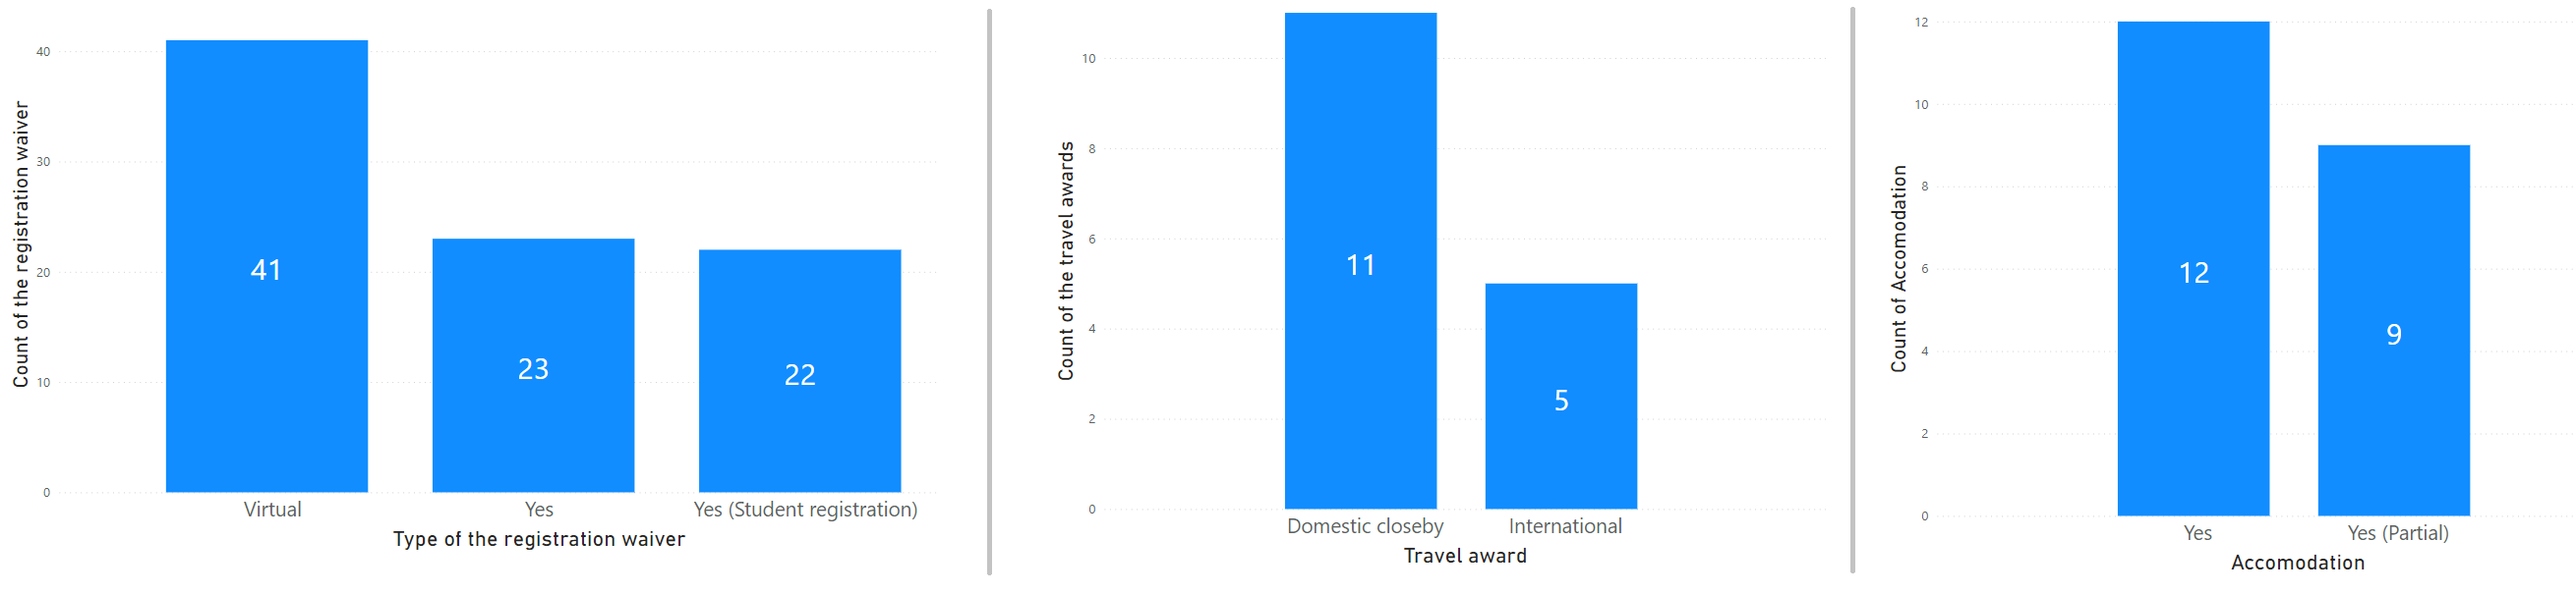
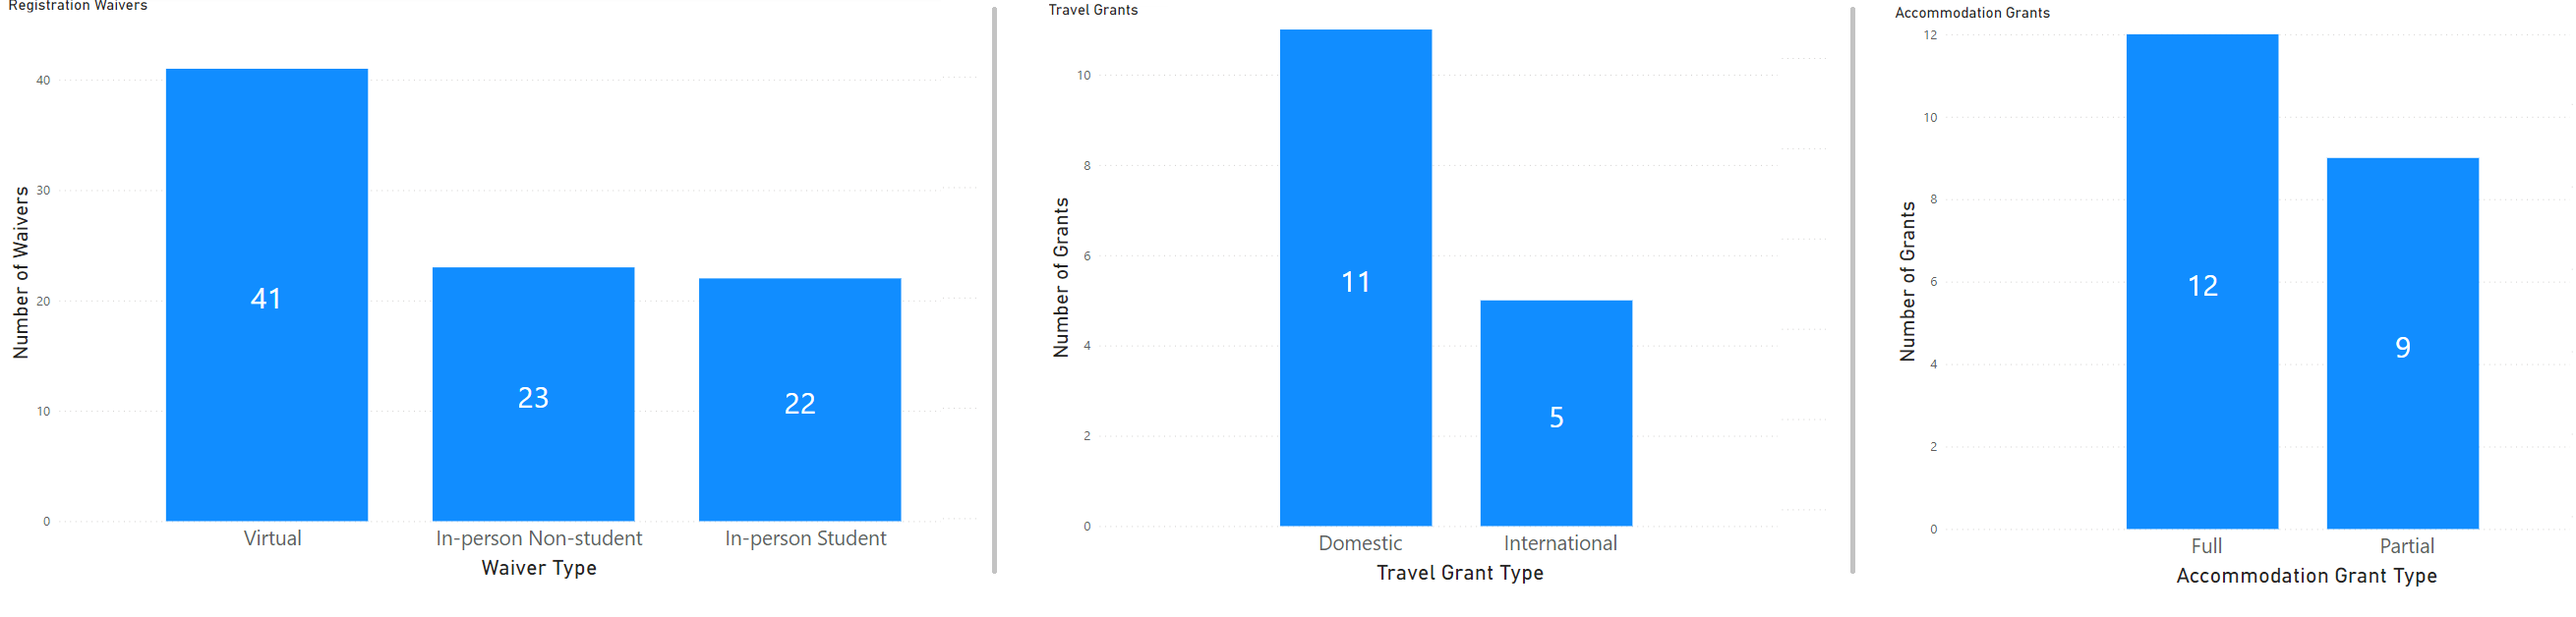
eaamo22 at a glance update

diff --git a/content/EAAMO_22_at_a_glance/_index.md b/content/EAAMO_22_at_a_glance/_index.md
@@ -18,7 +18,12 @@ header:
 
 ## General Overview
 
-The second Association for Computing Machinery (ACM) conference on Equity and Access in Algorithms, Mechanisms, and Optimization (EAAMO ‘22) took place from October 6, 2022 to October 9, 2022 at George Mason University (GMU) in Arlington, VA, USA. This was the first in-person iteration of the EAAMO conference series after the virtual launch at EAAMO ‘21. This year’s conference highlighted work where techniques from algorithms, optimization, and mechanism design, along with insights from the social sciences and humanistic studies tackle two goals: 1) improving equity and access to opportunity for historically disadvantaged and underserved communities and 2) helping identify ways in which algorithmic systems can create and perpetuate inequality. The conference is legally and financially sponsored by ACM Special Interest Groups on Artificial Intelligence (ACM SIGAI) and on Economics and Computation (ACM SIGecom), and has received financial support from the Alfred P. Sloan Foundation, MacArthur Foundation, and the Public Interest Technology University Network (PIT-UN). 
+The second Association for Computing Machinery (ACM) conference on Equity and Access in Algorithms, Mechanisms, and Optimization (EAAMO ‘22) took place from October 6, 2022 to October 9, 2022 at George Mason University (GMU) in Arlington, VA, USA. This was the first in-person iteration of the EAAMO conference series after the virtual launch at EAAMO ‘21. This year’s conference highlighted work where techniques from algorithms, optimization, and mechanism design, along with insights from the social sciences and humanistic studies tackle two goals:
+
+1. Improving equity and access to opportunity for historically disadvantaged and underserved communities and
+2. Helping identify ways in which algorithmic systems can create and perpetuate inequality.
+
+The conference is legally and financially sponsored by ACM Special Interest Groups on Artificial Intelligence ([ACM SIGAI](https://sigai.acm.org/main/)) and on Economics and Computation ([ACM SIGecom](https://www.sigecom.org/)), and has received financial support from the [Alfred P. Sloan Foundation](https://sloan.org/), [MacArthur Foundation](https://www.macfound.org/), and the Public Interest Technology University Network ([PIT-UN](https://pitcases.org/)).
 
 - - -
 
@@ -26,15 +31,17 @@ The second Association for Computing Machinery (ACM) conference on Equity and Ac
 
 ### Research collaboration with Indigenous communities from Mexico 
 
-One of the most ambitious diversity programs at EAAMO ‘22 was the sponsorship of a cohort of 7 female indigenous students from the Huasteca region of San Luis Potosi, Mexico, who presented work undertaken over the summer with researchers from the MD4SG community, during a dedicated poster session at the doctoral consortium. The students participating were all indigenous women from rural communities in San Luis Potosi. More specifically, 4 of the students belonged to Tének-speaking communities and the remaining 3 belonged to Náhuatl-speaking communities. For many of the students, this was their first time traveling abroad. Moreover, volunteers from the MD4SG research initiative offered live translation between English and Spanish for in-person participants of the conference which included these students.
+One of the most ambitious diversity programs at EAAMO ‘22 was the sponsorship of a cohort of 7 female indigenous students from the Huasteca region of San Luis Potosi, Mexico, who presented work undertaken over the summer with researchers from the Mechanism Design for Social Good ([MD4SG](https://www.md4sg.com/)) community, during a dedicated poster session at the doctoral consortium. The students participating were all indigenous women from rural communities in San Luis Potosi. More specifically, 4 of the students belonged to Tének-speaking communities and the remaining 3 belonged to Náhuatl-speaking communities. For many of the students, this was their first time traveling abroad. Moreover, volunteers from the MD4SG research initiative offered live translation between English and Spanish for in-person participants of the conference which included these students.
 
-This program came about as the result of ongoing collaboration between EAAMO,  MD4SG, the United States Embassy in Mexico, the Science and Technology Council of San Luis Potosí (COPOCYT), a government organization from the state of San Luis Potosí, and the [National Association of Universities and Higher Education Institutions](http://www.anuies.mx/). The main program was  a virtual Summer Research Experience for indigenous women students who are interested in STEM and aim towards bringing about positive social impact in their local communities. The selected students presented their work under the themes of: preservation of indigenous language/culture, affordable housing, and equitable access to healthcare for indigenous communities. A list of the poster presentations they will be presenting can be found in the [website](https://eaamo.org/doctoral_consortium/).
+This program came about as the result of ongoing collaboration between EAAMO, MD4SG, the United States Embassy in Mexico, the Science and Technology Council of San Luis Potosí ([COPOCYT](https://slp.gob.mx/copocyt/Paginas/Inicio.aspx)), a government organization from the state of San Luis Potosí, Mexico, and the [National Association of Universities and Higher Education Institutions](http://www.anuies.mx/). The main program was a virtual Summer Research Experience for indigenous women students who are interested in STEM and aim towards bringing about positive social impact in their local communities. The selected students presented their work under the themes of: preservation of indigenous language/culture, affordable housing, and equitable access to healthcare for indigenous communities. 
+
+We invite you to learn more about our students, their communities and their projects [here](https://eaamo.org/copocyt/). 
 
 - - -
 
 ### Diversity in Participation
 
-We are particularly encouraged by the fact that our participation spanned 25 countries (Figure 1), with close to 20% participants coming from the Global South. The conference benefited from gender diversity as well, with approximately 55% of participants identifying as female (Figure 2). We believe these are excellent indicators of our success in  creating a conference that welcomes and centers members of marginalized and underrepresented communities.
+We are particularly encouraged by the fact that our participation spanned 25 countries (Figure 1), with close to 20% participants coming from the Global South. More specifically, The conference had more than 140 in-person participants from over 13 countries as well as over 70 virtual participants from over 23 countries. The conference benefited from gender diversity as well, with approximately 55% of participants identifying as female (Figure 2). We believe these are excellent indicators of our success in creating a conference that welcomes and centers members of marginalized and underrepresented communities.
 
 <figure>
   <img src='../images/registrations.png' alt='The countries of registrants are highlighted in blue.'>
@@ -42,11 +49,12 @@ We are particularly encouraged by the fact that our participation spanned 25 cou
 </figure>
 
 <figure>
-  <img src='../images/registration_info.png' alt='The Registration info.'>
-  <figcaption>Fig. 2 - Registration info</figcaption>
+  <img src='../images/registration_info.png' alt='Demographic breakdown of registrations.'>
+  <figcaption>Fig. 2 - Demographic breakdown of registrations</figcaption>
 </figure>
 
-Financial assistance was given for fourty-five in-person and forty-one virtual registrations, sixteen travel grants, and twenty-three accommodation grants (Figure 3). The Registration and Grants Cochairs tried their best to ensure diversity, equality, and inclusion while giving grants, so students, researchers, and practitioners from a variety of countries and fields could have an opportunity to participate at EAAMO ’22.
+Financial assistance was provided in the form of: registration waivers (for both in-person and virtual attendance), travel grants and accommodation grants. We provided waivers for forty-five in person and forty-one virtual registrations, as well as sixteen travel grants and twenty-three accommodation grants (Figure 3). The Registration and Grants Cochairs tried their best to ensure diversity, equality, and inclusion while giving grants, so students, researchers, and practitioners from a variety of countries and fields could have an opportunity to participate at EAAMO ’22.
+
 
 <!--<img src='../images/registration_waivers.png' width="300" alt='The number of registration waivers.'>
 
@@ -55,23 +63,23 @@ Financial assistance was given for fourty-five in-person and forty-one virtual r
 <img src='../images/accommodation_grants.png' width="300" alt='The number of accommodation grants.'>-->
 
 <figure>
-  <img src='../images/grants.png' alt='The number of grants.'>
-  <figcaption>Fig. 3 - The total number of grants per type</figcaption>
+  <img src='../images/grants.png' alt='Breakdown of financial assistance provided at EAAMO ’22.'>
+  <figcaption>Fig. 3 - Breakdown of financial assistance provided at EAAMO ’22.</figcaption>
 </figure>
 
 - - -
 
 ### Paper Submissions
 
-We received over 150 submissions for publication from over 20 countries around the world and across fields, spanning authorship from researchers, policymakers, as well as other domain experts and professionals. All contributors were united by their interest in improving equity and developing solutions for problems in a variety of application domains such as education, labor, environment, healthcare, algorithmic fairness, and digital platforms. Due to its interdisciplinary nature, the conference attracted a very diverse and large group of members with backgrounds in computer science, AI, operations research, economics, public policy, and humanities, while a great number of papers combined methodologies and insights from multiple fields. Each contributed paper was rigorously peer-reviewed by members of a program committee who were chosen from fields related to the topics of the conference. Out of all submissions, 94 submissions were accepted as oral or poster presentations. 
+We received over 150 submissions for publication from over 20 countries around the world and across fields, spanning authorship from researchers, policymakers, as well as other domain experts and professionals. All contributors were united by their interest in improving equity and developing solutions for problems in a variety of application domains such as education, labor, environment, healthcare, algorithmic fairness, and digital platforms. Due to its interdisciplinary nature, the conference attracted a very diverse and large group of members with backgrounds in computer science, A.I., operations research, economics, public policy, and humanities, while a great number of papers combined methodologies and insights from multiple fields. Each contributed paper was rigorously peer-reviewed by members of a program committee who were chosen from fields related to the topics of the conference. Out of all submissions, 94 submissions were accepted as oral or poster presentations.
 
-From the accepted papers, 19 were accepted in the second volume of the archival track of the conference: [the 2022 Proceedings of  EAAMO ‘22: Equity and Access in Algorithms, Mechanisms, and Optimization published by the ACM](https://dl.acm.org/doi/proceedings/10.1145/3551624). We also gave awards in the following categories: [Best Paper, Best Paper with a Student Presenter, and New Horizons](https://eaamo.org/awards/).
+From the accepted papers, 19 were accepted in the second volume of the archival track of the conference: [the 2022 Proceedings of  EAAMO ‘22: Equity and Access in Algorithms, Mechanisms, and Optimization published by the ACM](https://dl.acm.org/doi/proceedings/10.1145/3551624). We also gave awards in the following categories: [Best Paper, Best Paper with a Student Presenter, and New Horizons](https://eaamo2022.eaamo.org/awards/).
 
 - - -
 
 ### Conference Activities
 
-Each of the four days of the conference featured either [keynote talks or panel discussions](https://eaamo.org/speakers/) alongside thematically related sessions. Our keynote talks addressed key themes for the conference: digital and data markets, algorithms for societal allocation, sustainability, and past and present inequality. The thematically-related multi-disciplinary [sessions](https://eaamo.org/schedule/) for contributed talks represented the wide range of topics and application domains of interest to the conference goals, the combination of novel and diverse methodologies as well as the strong connections of many papers to policy design: Participation, Allocation under constraints, Government Regulation & Audits, Quantitative social science and conceptual frameworks, Service Delivery & Incentives, Algorithms for Allocation, Computational Social Choice, Algorithmic Fairness and Documentation, Policy & Practice, Human Factors, and Allocation in Social Services. 
+Each of the four days of the conference featured either [keynote talks or panel discussions](https://eaamo2022.eaamo.org/speakers/) alongside thematically related sessions. Our keynote talks addressed key themes for the conference: digital and data markets, algorithms for societal allocation, sustainability, and past and present inequality. The thematically-related multi-disciplinary [sessions](https://eaamo2022.eaamo.org/schedule/) for contributed talks represented the wide range of topics and application domains of interest to the conference goals, the combination of novel and diverse methodologies as well as the strong connections of many papers to policy design: Participation, Allocation under constraints, Government Regulation & Audits, Quantitative social science and conceptual frameworks, Service Delivery & Incentives, Algorithms for Allocation, Computational Social Choice, Algorithmic Fairness and Documentation, Policy & Practice, Human Factors, and Allocation in Social Services. 
 
 We believe we succeeded in creating an inclusive in-person conference on how computational tools and algorithms, together with economic approaches and mechanism design, can address equity, access, and other urgent societal challenges.
 
@@ -79,4 +87,4 @@ We believe we succeeded in creating an inclusive in-person conference on how com
 
 ### Sponsors
 
-We are grateful to our sponsors, the ACM SIGecom and SIGAI, for sponsoring the conference for the second year in a row. We are particularly grateful to our funders, the Sloan Foundation, MacArthur Foundation, and the Public Interest Technology University Network (PIT-UN), whose support has been essential in funding under-represented groups to participate in the conference and in lowering registration fees in general to promote inclusivity. Our funders’ support has been used for travel grants for students coming from the Global South, registration fee waivers, and speaker honoraria, which has contributed to a diverse and multi-disciplinary program. 
+We are grateful to our sponsors, the [ACM SIGecom](https://www.sigecom.org/) and [SIGAI](https://sigai.acm.org/main/), for sponsoring the conference for the second year in a row. We are particularly grateful to our funders, [the Sloan Foundation](https://sloan.org/), [MacArthur Foundation](https://www.macfound.org/), and the Public Interest Technology University Network ([PIT-UN](https://pitcases.org/)), whose support has been essential in funding under-represented groups to participate in the conference and in lowering registration fees in general to promote inclusivity. Our funders’ support has been used for travel grants for students coming from the Global South, registration fee waivers, and speaker honoraria, which has contributed to a diverse and multi-disciplinary program. 
